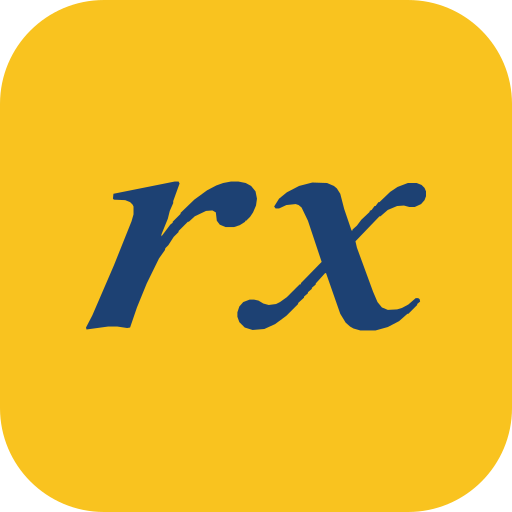
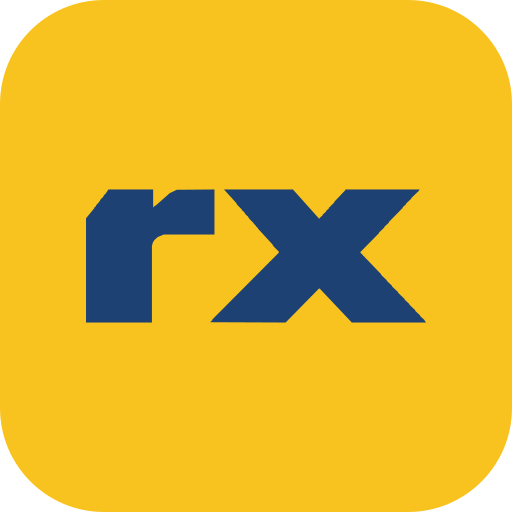
Bring the approved compact Monolith identity to TRTRx (#6)
Trace the selected Higgsfield A3 artwork into shared vectors, keep brand assets consistent, and give the header one reduced-motion-aware entrance.

Changed region(s): [[0.1562, 0.3438, 0.8438, 0.6562]]

diff --git a/src/lib/brand/wordmark.ts b/src/lib/brand/wordmark.ts
@@ -1,15 +1,8 @@
-// Approved Crisp literary, custom outlines from Higgsfield job 37fa8e3b-de6a-4f8b-877e-29a767edcaf7.
+// Approved Compact Monolith A3, traced from Higgsfield job 32175833-1288-4e3a-be13-b4af2d8faefa.
 // Geometry shared by the site, SVG exports and social images. No runtime font dependency.
 export const WORDMARK = {
-  "width": 158.766,
+  "width": 170.703,
   "height": 34,
-  "tile": {
-    "x": 93.742,
-    "y": 0.298,
-    "width": 64.875,
-    "height": 33.554,
-    "radius": 5.369
-  },
-  "trt": "M26.932,0.149 27.379,0.149 27.676,0.67 28.197,3.869 28.941,6.919 28.792,7.217 28.495,7.291 27.453,7.217 26.932,6.175 25.667,4.389 24.551,3.348 23.584,2.827 21.352,2.306 17.26,2.306 17.335,26.783 17.856,28.271 18.525,28.941 19.79,29.611 21.65,30.131 21.799,30.354 21.724,30.95 20.98,31.024 18.897,30.726 15.996,30.578 12.945,30.578 6.919,31.024 6.77,30.726 6.77,30.354 6.919,30.131 8.407,29.759 9.969,28.941 10.862,27.899 11.16,27.007 11.309,25.667 11.309,2.306 7.44,2.381 5.357,2.976 4.166,3.72 3.348,4.538 3.348,4.687 2.381,5.803 1.562,7.217 0.298,7.217 0.149,6.919 1.414,3.497 2.306,0.298 2.976,0.223 3.125,0.372 4.092,0.595 6.175,0.744 21.278,0.744 24.998,0.595ZM62.346,0.149 62.718,0.149 63.685,0.521 65.173,0.67 84.144,0.67 86.153,0.521 87.79,0.149 88.311,0.149 88.534,0.372 89.352,4.836 89.873,6.77 89.873,7.068 89.352,7.291 88.534,7.291 86.674,4.538 85.558,3.497 84.368,2.827 82.21,2.306 77.746,2.306 77.672,24.551 77.821,27.007 78.267,28.197 78.862,28.867 80.053,29.536 82.136,30.131 82.136,31.024 76.481,30.578 71.125,30.652 67.182,31.024 67.182,30.131 69.042,29.611 70.232,28.941 71.125,27.899 71.497,26.709 71.646,24.849 71.646,2.306 67.851,2.306 65.991,2.678 65.247,2.976 64.354,3.497 63.462,4.315 61.379,7.291 60.263,7.217 60.114,6.845 61.007,4.315 61.974,0.446ZM42.407,0.446 46.796,0.521 49.103,0.893 50.442,1.265 52.153,2.009 53.195,2.678 54.311,3.646 55.129,4.761 55.799,6.547 55.947,8.184 55.799,9.449 55.501,10.49 54.534,12.201 52.897,13.764 50.888,14.88 48.88,15.624 46.276,16.293 47.094,16.516 47.912,16.963 49.177,18.079 55.204,26.188 57.287,28.42 59.072,29.536 61.081,30.131 61.081,31.024 54.236,31.024 52.451,30.578 51.112,29.834 49.772,28.643 49.624,28.643 48.508,27.453 41.514,16.963 39.729,16.963 39.803,26.932 40.101,27.974 40.919,28.941 42.184,29.611 44.044,30.131 44.118,30.95 43.3,31.024 41.217,30.726 38.464,30.578 35.042,30.578 31.47,30.801 30.28,31.024 29.462,30.95 29.387,30.28 29.536,30.131 31.917,29.313 32.661,28.792 33.182,28.197 33.628,27.081 33.777,25.444 33.777,3.646 33.554,2.678 33.182,2.232 31.917,1.711 30.875,1.562 30.726,1.414 30.726,0.744 30.95,0.595 38.464,0.67ZM48.954,9.746 49.028,7.514 48.805,6.398 48.061,4.613 46.796,3.199 45.532,2.455 43.597,2.009 41.365,2.009 39.952,2.232 39.729,2.381 39.729,15.4 41.589,15.475 43.597,15.326 44.937,15.028 46.201,14.433 47.392,13.466 48.21,12.35 48.731,11.16Z",
-  "rx": "M113.16,7.365 113.755,7.365 113.904,7.663 112.937,10.341 112.937,10.639 112.416,11.829 112.118,13.02 111.151,15.4 111.151,15.698 112.49,13.912 112.862,13.615 112.862,13.466 114.053,12.276 114.053,12.127 116.136,10.118 118.07,8.705 119.484,7.961 120.525,7.589 121.716,7.365 122.832,7.365 123.947,7.589 124.766,8.035 125.435,8.853 125.659,9.969 125.51,11.011 125.063,12.053 124.617,12.722 124.022,13.317 123.873,13.317 123.873,13.466 123.055,13.987 122.162,14.284 120.897,14.284 120.004,13.912 119.558,13.317 119.409,12.053 118.888,11.755 117.921,11.829 116.21,12.648 115.317,13.466 115.168,13.466 113.755,14.88 113.755,15.028 113.011,15.772 112.193,17.037 111.746,17.484 111.672,17.781 110.779,19.046 108.919,22.84 107.431,26.486 106.389,29.536 105.943,29.611 104.455,29.387 103.042,29.387 99.768,29.834 99.694,29.536 100.661,27.676 103.934,20.088 106.613,13.392 106.91,12.35 106.91,11.16 106.761,10.862 106.389,10.49 105.646,10.193 103.934,10.118 103.786,9.969 103.86,9.225ZM134.066,7.514 136.298,7.589 137.339,8.035 137.786,8.407 138.306,9.225 138.902,11.532 140.018,14.805 140.166,14.805 140.166,14.656 140.836,14.061 141.505,13.168 142.77,11.978 142.77,11.829 143.068,11.681 143.514,11.085 143.663,11.085 144.109,10.49 144.258,10.49 145.895,8.928 147.011,8.184 148.573,7.589 149.912,7.589 150.656,7.886 151.103,8.333 151.326,8.853 151.326,9.597 151.103,10.193 150.582,10.788 149.615,11.234 148.796,11.234 147.978,11.011 146.937,11.085 145.523,11.681 144.407,12.648 144.258,12.648 140.613,16.442 140.836,17.409 143.291,24.105 143.961,25.667 144.63,26.486 145.523,26.858 146.937,26.783 147.681,26.56 148.648,26.039 149.764,25.072 150.136,25.072 150.359,25.221 150.433,25.593 149.987,25.965 149.987,26.114 148.648,27.453 148.499,27.453 147.234,28.569 145.523,29.462 143.663,29.982 141.357,29.982 140.315,29.685 139.794,29.387 139.125,28.792 138.306,27.453 136.149,21.278 136,21.278 134.586,22.84 134.586,22.989 133.991,23.51 133.991,23.659 133.396,24.179 133.396,24.328 132.801,24.849 132.801,24.998 131.908,25.816 131.908,25.965 130.123,27.751 128.411,29.015 126.775,29.759 124.989,29.908 123.799,29.536 122.98,28.718 122.683,27.899 122.683,27.23 122.98,26.337 123.575,25.667 124.543,25.295 125.212,25.295 125.882,25.444 126.626,25.891 127.444,26.114 128.56,25.965 129.155,25.667 130.197,24.923 132.131,22.989 132.28,22.989 132.354,22.766 135.479,19.567 133.396,13.317 132.429,11.309 131.982,10.937 131.536,10.788 130.123,10.937 129.007,11.457 128.486,11.457 128.263,11.16 129.007,9.969 130.197,9.002 132.057,8.035Z"
+  "trt": "M0.117,0.117 35.466,0.117 35.466,8.559 22.686,8.559 22.628,33.883 11.314,33.883 11.314,8.559 0.117,8.559ZM37.107,0.117 65.303,0.176 66.945,0.469 68.645,1.055 69.583,1.524 70.814,2.403 71.634,3.224 72.514,4.514 73.041,5.686 73.452,7.21 73.628,9.028 73.628,14.245 73.334,16.297 73.041,17.176 72.514,18.231 72.103,18.7 71.986,18.993 70.814,20.107 70.11,20.576 68.176,21.455 66.476,21.866 65.597,21.924 65.597,22.041 65.772,22.1 71.517,27.845 71.517,27.962 71.634,27.962 77.438,33.766 77.438,33.883 61.259,33.883 56.1,28.724 55.983,28.724 49.886,22.745 48.421,22.745 48.421,33.883 37.107,33.883ZM74.566,0.117 107.803,0.176 107.745,8.559 96.49,8.559 96.49,33.883 85.117,33.824 85.117,8.559 74.566,8.559ZM62.548,12.428 62.548,9.79 62.314,9.262 61.903,8.852 61.259,8.559 48.421,8.559 48.421,14.01 61.083,14.01 61.845,13.717 62.314,13.248 62.548,12.721Z",
+  "rx": "M109.855,8.441 118.414,8.441 118.414,11.841 118.531,11.841 118.531,11.724 119,11.431 121.579,9.145 122.928,8.5 130.138,8.441 130.138,17.059 120.407,17.059 119.293,17.528 118.648,18.114 118.355,18.583 118.179,19.228 118.179,33.883 105.576,33.883 105.576,13.952 107.159,12.017 107.159,11.9 107.393,11.724 107.569,11.372 107.803,11.197 107.803,11.079 108.038,10.903 108.39,10.317 108.859,9.848 109.034,9.497 109.269,9.321ZM131.955,8.441 145.145,8.441 150.128,14.01 150.245,14.01 150.245,13.893 150.831,13.366 150.831,13.248 151.476,12.662 151.476,12.545 152.003,12.076 152.003,11.959 153.059,10.903 153.059,10.786 155.169,8.559 155.169,8.441 169.355,8.441 169.238,8.676 167.772,10.083 167.772,10.2 166.776,11.138 166.776,11.255 166.131,11.841 166.131,11.959 163.493,14.655 163.493,14.772 162.614,15.593 162.614,15.71 161.617,16.648 161.617,16.766 158.041,20.4 158.041,20.517 162.028,24.679 162.028,24.797 163.083,25.793 163.083,25.91 164.079,26.848 164.079,26.966 165.252,28.079 165.252,28.197 166.483,29.369 166.483,29.486 167.421,30.366 167.421,30.483 168.534,31.538 168.534,31.655 169.472,32.534 169.472,32.652 170.234,33.355 170.586,33.883 156.4,33.883 150.245,27.376 150.128,27.376 143.738,33.883 129.317,33.824 129.728,33.414 129.728,33.297 142.448,20.517 142.448,20.341 141.51,19.403 141.159,18.876 138.462,15.945 138.462,15.828 138.052,15.476 138.052,15.359 137.641,15.007 137.641,14.89 136.821,14.069 136.528,13.6 136.117,13.248 135.766,12.721 135.355,12.369 135.355,12.252 134.534,11.431 134.241,10.962Z"
 } as const;

diff --git a/src/components/layout/Wordmark.tsx b/src/components/layout/Wordmark.tsx
@@ -3,29 +3,23 @@ import { WORDMARK } from '@/lib/brand/wordmark';
 type Props = {
   tone?: 'on-light' | 'on-dark';
   height?: number;
+  animated?: boolean;
 };
 
 /** Shared outlined artwork: no font request, raster scaling, or layout shift. */
-export function Wordmark({ tone = 'on-light', height = 32 }: Props) {
+export function Wordmark({ tone = 'on-light', height = 32, animated = false }: Props) {
   return (
     <svg
       xmlns="http://www.w3.org/2000/svg"
       viewBox={`0 0 ${WORDMARK.width} ${WORDMARK.height}`}
       width={(height * WORDMARK.width) / WORDMARK.height}
       height={height}
+      className={animated ? 'wordmark-entrance' : undefined}
       aria-hidden="true"
       focusable="false"
     >
-      <path fill={tone === 'on-dark' ? '#FBFCFD' : '#1D4173'} d={WORDMARK.trt} />
-      <rect
-        x={WORDMARK.tile.x}
-        y={WORDMARK.tile.y}
-        width={WORDMARK.tile.width}
-        height={WORDMARK.tile.height}
-        rx={WORDMARK.tile.radius}
-        fill="#F9C31F"
-      />
-      <path fill="#1D4173" d={WORDMARK.rx} />
+      <path className={animated ? 'wordmark-trt' : undefined} fill={tone === 'on-dark' ? '#FBFCFD' : '#1D4173'} d={WORDMARK.trt} />
+      <path className={animated ? 'wordmark-rx' : undefined} fill="#F9C31F" d={WORDMARK.rx} />
     </svg>
   );
 }

diff --git a/src/components/layout/Logo.tsx b/src/components/layout/Logo.tsx
@@ -1,13 +1,25 @@
 import Link from 'next/link';
 import { cn } from '@/lib/utils';
 import { Wordmark } from './Wordmark';
+import { useEffect, useState } from 'react';
+
+let headerEntranceStarted = false;
 
 type LogoProps = {
   className?: string;
   tone?: 'on-light' | 'on-dark';
+  animated?: boolean;
 };
 
-export function Logo({ className, tone = 'on-light' }: LogoProps) {
+export function Logo({ className, tone = 'on-light', animated = false }: LogoProps) {
+  const [playEntrance] = useState(() => animated && !headerEntranceStarted);
+
+  useEffect(() => {
+    if (playEntrance) {
+      headerEntranceStarted = true;
+    }
+  }, [playEntrance]);
+
   return (
     <Link
       href="/"
@@ -17,7 +29,7 @@ export function Logo({ className, tone = 'on-light' }: LogoProps) {
         className,
       )}
     >
-      <Wordmark tone={tone} />
+      <Wordmark tone={tone} animated={animated && playEntrance} />
     </Link>
   );
 }

diff --git a/src/styles/globals.css b/src/styles/globals.css
@@ -2,6 +2,27 @@
 @tailwind components;
 @tailwind utilities;
 
+/* One brief header entrance, followed by the static approved artwork. */
+@media (prefers-reduced-motion: no-preference) {
+  .wordmark-entrance .wordmark-trt {
+    animation: wordmark-lock 650ms cubic-bezier(.22, 1, .36, 1) both;
+  }
+
+  .wordmark-entrance .wordmark-rx {
+    animation: wordmark-accent 750ms 120ms cubic-bezier(.22, 1, .36, 1) both;
+  }
+}
+
+@keyframes wordmark-lock {
+  from { opacity: 0; transform: translateX(-3px); }
+  to { opacity: 1; transform: translateX(0); }
+}
+
+@keyframes wordmark-accent {
+  from { opacity: 0; transform: translateX(4px); }
+  to { opacity: 1; transform: translateX(0); }
+}
+
 @layer base {
   :root {
     /* Palette — Gold/Blue/White: ocean blue + bright marigold (with dark-amber text sibling) on cool white */

diff --git a/src/components/layout/Navigation.tsx b/src/components/layout/Navigation.tsx
@@ -85,7 +85,7 @@ export function Navigation() {
         />
 
         <div className="container flex h-[68px] items-center justify-between">
-          <Logo />
+          <Logo animated />
 
           <nav className="hidden items-center gap-5 lg:flex">
             {NAV_ITEMS.map((item) => {

diff --git a/scripts/brand/trace-approved-wordmark.py b/scripts/brand/trace-approved-wordmark.py
@@ -1,5 +1,5 @@
 #!/usr/bin/env python3
-"""Export approved Crisp literary artwork, preserving its glyph silhouettes.
+"""Export approved Compact Monolith artwork, preserving its glyph silhouettes.
 
 python3 scripts/brand/trace-approved-wordmark.py /path/to/approved.png
 Requires Pillow and NumPy; never substitutes a font or ships raster artwork.
@@ -12,7 +12,7 @@ import json
 import numpy as np
 from PIL import Image
 
[2 lines of base64/hex data omitted]
 
 def number(value):
     return f'{value:.3f}'.rstrip('0').rstrip('.') or '0'
@@ -65,28 +65,23 @@ if hashlib.sha256(args.source.read_bytes()).hexdigest() != SOURCE_HASH:
     raise SystemExit('Source differs from selected Higgsfield image. Verify before rebuilding.')
 pixels = np.array(Image.open(args.source).convert('RGB')).astype(np.int16)
 red, green, blue = pixels[:, :, 0], pixels[:, :, 1], pixels[:, :, 2]
-letters = (red < 150) & (green < 165) & (blue > red+20) & (blue > 60)
-yellow = (red > 200) & (green > 130) & (blue < 110)
-ys, xs = np.where(yellow)
-tx, ty, tw, th = int(xs.min()), int(ys.min()), int(xs.max()-xs.min()+1), int(ys.max()-ys.min()+1)
-ly, lx = np.where(letters)
-x0, y0 = min(int(lx.min()), tx)-2, min(int(ly.min()), ty)-2
-x1, y1 = max(int(lx.max())+1, tx+tw)+2, max(int(ly.max())+1, ty+th)+2
-scale, split = 34/(y1-y0), tx-x0
-crop = letters[y0:y1, x0:x1]
-left, right = crop.copy(), crop.copy()
-left[:, split:], right[:, :split] = False, False
-left_contours, right_contours = contours(left), contours(right)
+letters = (red > 180) & (green > 180) & (blue > 180)
+gold = (red > 190) & (green > 120) & (blue < 130)
+ys, xs = np.where(letters | gold)
+x0, y0 = int(xs.min())-2, int(ys.min())-2
+x1, y1 = int(xs.max())+3, int(ys.max())+3
+scale = 34/(y1-y0)
+left_contours = contours(letters[y0:y1, x0:x1])
+right_contours = contours(gold[y0:y1, x0:x1])
 if len(left_contours) != 4 or len(right_contours) != 2:
     raise SystemExit(f'Unexpected glyph topology: {len(left_contours)} TRT, {len(right_contours)} rx.')
 
 def path(outlines):
     return ''.join('M'+' '.join(f'{number(x*scale)},{number(y*scale)}' for x, y in outline[:-1])+'Z' for outline in outlines)
 
-tile = {'x': round((tx-x0)*scale, 3), 'y': round((ty-y0)*scale, 3), 'width': round(tw*scale, 3), 'height': round(th*scale, 3), 'radius': round(th*.16*scale, 3)}
-data = {'width': round((x1-x0)*scale, 3), 'height': 34, 'tile': tile, 'trt': path(left_contours), 'rx': path(right_contours)}
+data = {'width': round((x1-x0)*scale, 3), 'height': 34, 'trt': path(left_contours), 'rx': path(right_contours)}
 root = Path(__file__).resolve().parents[2]
-source = '// Approved Crisp literary, custom outlines from Higgsfield job 37fa8e3b-de6a-4f8b-877e-29a767edcaf7.\n'
+source = '// Approved Compact Monolith A3, traced from Higgsfield job 32175833-1288-4e3a-be13-b4af2d8faefa.\n'
 source += '// Geometry shared by the site, SVG exports and social images. No runtime font dependency.\n'
 source += 'export const WORDMARK = '+json.dumps(data, indent=2)+' as const;\n'
 (root/'src/lib/brand/wordmark.ts').write_text(source)
@@ -94,8 +89,7 @@ source += 'export const WORDMARK = '+json.dumps(data, indent=2)+' as const;\n'
 def svg(color):
     return (f'<svg xmlns="http://www.w3.org/2000/svg" width="{number(data["width"]*10)}" height="340" viewBox="0 0 {data["width"]} 34">'
             f'<path fill="{color}" d="{data["trt"]}"/>'
-            f'<rect x="{tile["x"]}" y="{tile["y"]}" width="{tile["width"]}" height="{tile["height"]}" rx="{tile["radius"]}" fill="#F9C31F"/>'
-            f'<path fill="#1D4173" d="{data["rx"]}"/></svg>\n')
+            f'<path fill="#F9C31F" d="{data["rx"]}"/></svg>\n')
 for name, color in [('wordmark', '#1D4173'), ('wordmark-on-dark', '#FBFCFD')]:
     (root/f'public/brand/{name}.svg').write_text(svg(color))
 points = np.array([point for outline in right_contours for point in outline])*scale

diff --git a/public/brand/README.md b/public/brand/README.md
@@ -1,16 +1,18 @@
 # trtrx wordmark
 
-Approved direction: **Option 1, Crisp literary**, selected on October 6, 2026. Uppercase navy `TRT`, italic lowercase navy `rx` inside the yellow tile.
+Approved direction: **A3, Compact Monolith**, selected on November 15, 2026. Christian chose “3” from the three close Monolith refinements and requested the website update. Uppercase heavy upright `TRT` and lowercase gold `rx` form one wordmark. This supersedes the October 6, 2026 Crisp literary artwork and its gold tile.
 
-The production artwork preserves the approved Higgsfield glyph silhouettes as simplified, self-contained vector outlines. It does not substitute an installed font. `src/lib/brand/wordmark.ts` supplies the navigation, footer and dynamic social images. The standalone SVGs match that geometry. The centered yellow `rx` supplies the favicon family, within the maskable safe circle. Letter colors use the established palette without the generated texture.
+The production artwork preserves the approved Higgsfield glyph silhouettes as simplified, self-contained vector outlines. It does not substitute an installed font. `src/lib/brand/wordmark.ts` supplies the navigation, footer and dynamic social images. The standalone SVGs match that geometry. On light backgrounds, TRT is navy; on dark backgrounds, TRT is white. The rx is gold in both versions. The icon family uses navy rx on gold within the maskable safe circle. Flat fills replace the generated image texture.
+
+The header plays one short entrance per document load, with a static reduced-motion version. The footer, mobile drawer, standalone exports and dynamic share images use the settled artwork.
 
 - Light: `wordmark.svg`
 - Dark: `wordmark-on-dark.svg`
-- Approved Higgsfield job: `37fa8e3b-de6a-4f8b-877e-29a767edcaf7`
-- Model: GPT Image 2.5 Flare, quality max, requested resolution 4K, actual 3504 × 2336.
[1 lines of base64/hex data omitted]
-- Source: https://d8j0ntlcm91z4.cloudfront.net/user_3EmhjwFcq1NsfVMmKt8hd5kvdxT/hf_20261005_030313_37fa8e3b-de6a-4f8b-877e-29a767edcaf7.png
-- The retained Manrope license and old generator describe the superseded September logo, not these custom outlines.
+- Approved Higgsfield job: `32175833-1288-4e3a-be13-b4af2d8faefa`
+- Model: GPT Image 2.6 Flare, quality max, 4K, actual 3840 × 2160.
[1 lines of base64/hex data omitted]
+- Source: https://d8j0ntlcm91z4.cloudfront.net/user_3EmhjwFcq1NsfVMmKt8hd5kvdxT/hf_20261116_002934_32175833-1288-4e3a-be13-b4af2d8faefa.png
+- The retained Manrope license and old `generate-wordmark.py` describe the superseded September logo. Use the hash-pinned tracing script below for the current artwork.
 
 Rebuild with the approved PNG (the script checks its SHA-256), Python with Pillow/NumPy, and Node with Sharp:
 

diff --git a/docs/LAUNCH-SEO-2026-10-06.md b/docs/LAUNCH-SEO-2026-10-06.md
@@ -22,7 +22,7 @@ This section supersedes the older checklist's global noindex review-release conf
 
 Launch a useful, transparent education site before patient intake opens. Keep public indexing and clinical intake as separate releases. Build depth around testing, safety, cost and choosing care, then add state pages when there are verified differences that help the reader. Volume alone is not the goal.
 
-The approved brand direction is **1, Crisp literary**: uppercase `TRT` and italic `rx` in the yellow tile. The chosen Higgsfield artwork is reconstructed as scalable outlines used by the header, footer, social images and icons. See `public/brand/README.md` for provenance and rebuilding.
+The October 6, 2026 **Crisp literary** artwork was superseded by Christian's November 15, 2026 selection of **A3, Compact Monolith**, with heavy upright TRT and integrated gold rx. The chosen Higgsfield artwork is reconstructed as scalable outlines used by the header, footer, social images and icons. See `public/brand/README.md` for current provenance and rebuilding.
 
 ## What the audit found and changed
 
